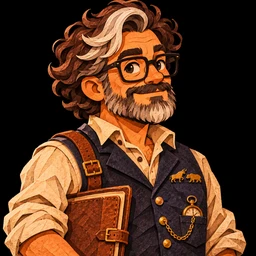
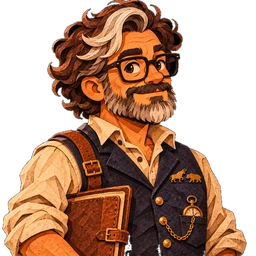
James's and Mike's portraits on a transparent background, like the other residents (no black box on the cards) (#330)
Claude-Session: https://claude.ai/code/session_01Y5Vq5MY5R98tUMSQqTrVD3

diff --git a/index.html b/index.html
@@ -47,4 +47,4 @@ html:not([data-paperworld-maintenance="yes"]) .building-placement-panel,
 html:not([data-paperworld-maintenance="yes"]) .crow-technical-tools,
 html:not([data-paperworld-maintenance="yes"]) .village-maintenance-only {display:none!important}
 </style><script>if(new URLSearchParams(location.search).get('maintenance')==='1')document.documentElement.dataset.paperworldMaintenance='yes'</script></head><body><header><strong>PAPERWORLD</strong><span>YOUR LIVING AI VILLAGE</span></header><div class="layout"><main id="view"><canvas id="map" aria-label="Paperworld enlarged village preview; drag to move camera and tap a building to inspect"></canvas><div class="controls"><button id="path-editor-toggle" type="button" aria-pressed="false" title="Σχεδίαση διαδρομών">Paths</button><button id="building-placement-toggle" type="button" aria-pressed="false" title="Μετακίνηση κτιρίων">Τοποθέτηση κτιρίων</button><button id="world-talk-matt" type="button" aria-label="Talk to Matt" title="Talk to Matt">M</button><button id="world-work-panel" type="button" aria-label="Οι εργασίες μου" title="Οι εργασίες μου">✓</button><button id="depth-demo" class="depth-demo" type="button" aria-label="Cycle isometric depth test">Depth test: Off</button><button id="plus" aria-label="Zoom in">+</button><button id="minus" aria-label="Zoom out">−</button><button id="home" aria-label="Fit world">⌂</button></div><section id="path-editor-panel" class="building-placement-panel path-editor-panel" hidden aria-label="Σχεδιασμός διαδρομών"><strong>Σχεδίαση διαδρομών</strong><p id="path-editor-status">Επεξεργασία διαδρομών</p><label for="path-editor-mode">Εργαλείο</label><select id="path-editor-mode"><option value="draw">Σχεδίαση / σύνδεση</option><option value="move">Μετακίνηση κόμβου</option><option value="erase">Διαγραφή σύνδεσης</option><option value="hidden">Κρυφή διαδρομή</option></select><label class="path-editor-check"><input id="path-editor-show-hidden" type="checkbox" checked> Εμφάνιση κρυφών διαδρομών</label><div class="building-placement-actions"><button id="path-editor-undo" type="button">Αναίρεση</button><button id="path-editor-reset" type="button">Επαναφορά paths</button><button id="path-editor-copy" type="button">Αντιγραφή paths</button><button id="path-editor-finish" type="button">Τέλος</button></div><textarea id="path-editor-export" rows="6" readonly hidden aria-label="Path survey JSON"></textarea><small>Δοκιμαστικό σχέδιο μόνο σε αυτόν τον browser. Οι χαρακτήρες συνεχίζουν να χρησιμοποιούν τα εγκεκριμένα paths μέχρι να τα επιβεβαιώσουμε.</small></section><section id="building-placement-panel" class="building-placement-panel" hidden aria-label="Επεξεργασία θέσεων κτιρίων"><strong>Τοποθέτηση κτιρίων</strong><p id="building-placement-status">Άγγιξε ένα κτίριο για να το επιλέξεις.</p><div class="building-placement-actions"><button id="building-nudge-left" type="button" aria-label="Αριστερά">←</button><button id="building-nudge-right" type="button" aria-label="Δεξιά">→</button><button id="building-nudge-up" type="button" aria-label="Πάνω">↑</button><button id="building-nudge-down" type="button" aria-label="Κάτω">↓</button><button id="building-placement-reset" type="button">Επαναφορά κτιρίου</button><button id="building-placement-reset-all" type="button">Επαναφορά όλων</button><button id="building-placement-copy" type="button">Αντιγραφή θέσεων</button><button id="building-placement-finish" type="button">Τέλος</button></div><textarea id="building-placement-export" rows="6" readonly hidden aria-label="Building placement JSON"></textarea><small>Οι αλλαγές αποθηκεύονται μόνο σε αυτόν τον browser. Η κανονική λειτουργία του χωριού δεν αλλάζει μέχρι το τελικό PR.</small></section><div class="hint">Άγγιξε το χωριό για να περπατήσεις · M: Matt · T: κοντινός συνεργάτης</div></main><aside id="world-drawer" hidden><div class="world-drawer-head"><small>ΟΙ ΕΡΓΑΣΙΕΣ ΜΟΥ</small><button id="close-world-drawer" type="button" aria-label="Close work desk">×</button></div><h1 id="name">Το χωριό σου</h1><p id="desc">Επίλεξε ένα κτίριο ή μίλησε στον Matt.</p><div class="workspace-actions"><button id="walkway-overlay" type="button" class="open-projects" aria-label="Toggle walkable path overlay" aria-pressed="false" title="Show collision-checked walkable paths">Paths: Off</button><button id="call-visual-meeting" type="button" class="open-projects" title="Οπτική συνάντηση και πραγματική ενημέρωση εργασιών · χωρίς AI κλήση">Town Hall · συντονισμός</button><button id="open-projects" class="open-projects" type="button">Οι εργασίες μου</button><button id="open-chief" class="open-projects chief-launch" type="button">Talk to Matt</button></div><details class="dev-tools"><summary>Map calibration tools</summary><div class="marker-editor"><button id="calibrate-marker" type="button" disabled>Place marker on door</button><button id="reset-marker" type="button" disabled>Reset</button><p id="marker-status">Select a building to adjust its marker.</p><button id="export-markers" type="button">Copy all 5 door positions</button><textarea id="marker-export-output" rows="5" readonly hidden aria-label="Door calibration coordinates"></textarea></div></details><details class="dev-tools"><summary>Technical asset status</summary><section><b>Village status</b><div id="assets"></div><p>Five project rooms are available. Navigation and artwork refinement continues.</p></section></details><div id="project-room" class="project-room" hidden aria-live="polite"></div><p class="disclaimer">Οι σημαντικές αποφάσεις και οι δημοσιεύσεις παραμένουν υπό τον έλεγχό σου.</p></aside></div><script src="./js/i18n.js?v=bilingual-v1-context" defer></script><script src="./js/owner-path-survey.js?v=20261121-74" defer></script><script src="./js/navigation.js?v=owner-survey-safe-v5" defer></script><script src="./js/path-editor.js?v=1" defer></script><script src="./js/depth.js?v=sidewalk-depth-v2" defer></script><script src="./js/projects.js" defer></script><script src="./js/rooms-ui.js" defer></script><script src="./js/cloud.js?v=bilingual-v1-suno-cap-tidy-push-tools-link-stage-ideas-inventory-redo-james-shop-page-mike" defer></script><script src="./js/agent-conversation-store.js?v=43-mike" defer></script><script src="./js/chief.js?v=28" defer></script><script src="./js/agents.js?v=39-mike" defer></script><script src="./js/director-memory-review.js?v=2-r2-f1" defer></script><script src="./js/director-history-import.js?v=1" defer></script><script src="./js/director-history-import-ui.js?v=1-f1" defer></script><script src="./js/listening-review.js?v=human-first-v3" defer></script><script src="./js/autonomy-public-feed.js?v=unattended-v5" defer></script><script src="./js/human-first-hub.js?v=responsive-1-tidy-slim-f2" defer></script><script src="./js/town-hall-briefing.js?v=integrated-v4-f1" defer></script><script src="./js/village-activity.js?v=human-v3-reasons-audit-r2-redone" defer></script><script src="./js/cloud-ui.js?v=release-1-phase2-tidy-push-ideas-audit-r2-f1-redo-shop-page-mike" defer></script><script src="./js/visual-agent-workflow.js?v=1" defer></script><script src="./js/director-movement.js?v=owner-connected-v2-townhall" defer></script><script src="./js/town-hall-interior.js?v=3-scene-audit-r2-week-fast" defer></script><script src="./js/workspace-interior.js?v=3-scenes-audit-james-mike-art-james2-mike2-jr" defer></script><script src="./js/push-notify.js?v=2-app" defer></script><script src="./js/director-actions-client.js?v=2-studio-v2-voice2" defer></script><script src="./js/proof.js?v=4-redone" defer></script>
-<script src="./js/village-life.js?v=3-strolls-work" defer></script><script src="./js/camera-framing.js?v=responsive-1-board-follow" defer></script><script src="./js/resident-status.js?v=1&stall=1-audit-f1-redo-redone" defer></script><script src="./js/village-ambience.js?v=2-night" defer></script><script src="./js/village-sound.js?v=1" defer></script><script src="./js/app.js?v=responsive-1-living-v3-board-follow-night-townhall-ws-audit-f2-shop2-mike-art-fast-style2-james2-mike2-mh-ms" defer></script><script src="./js/matt-history.js?v=full-replies-v3-notify-all" defer></script><script src="./js/agent-profiles.js?v=3-mike-mike-art-style2-james2-mike2-ms" defer></script><script src="./js/team-panel.js?v=responsive-1-mike" defer></script><script src="./js/crow-suno-prompt.js?v=1" defer></script><script src="./js/crow-studio-draft.js?v=7-truthful-handoff-wordless-studio-v2-voice2" defer></script><script src="./js/messenger-format.js?v=messenger-v2-1" defer></script><script src="./js/routine-intent.js?v=release-1" defer></script><script src="./js/voice-input.js?v=1" defer></script><script src="./js/world-dialogue.js?v=release-1-routine-v4-composer-fix-cards-v2-phase5-living-context-starters-chime-handoff-tools-voice-ideas-audit-mem-song2-studio-v2-suno-inventory-voice2-f1-redo-b8-mike" defer></script><script src="./js/connection-status.js?v=responsive-1" defer></script><script src="./js/workspace.js?v=bilingual-v1-tidy-sound-push-ideas-proof-audit-mem-f2-redo-james-shop-page-mike" defer></script><script src="./js/resident-feed.js?v=1-board-fast-audit-week" defer></script><script src="./js/village-board.js?v=2-mike" defer></script></body></html>
+<script src="./js/village-life.js?v=3-strolls-work" defer></script><script src="./js/camera-framing.js?v=responsive-1-board-follow" defer></script><script src="./js/resident-status.js?v=1&stall=1-audit-f1-redo-redone" defer></script><script src="./js/village-ambience.js?v=2-night" defer></script><script src="./js/village-sound.js?v=1" defer></script><script src="./js/app.js?v=responsive-1-living-v3-board-follow-night-townhall-ws-audit-f2-shop2-mike-art-fast-style2-james2-mike2-mh-ms" defer></script><script src="./js/matt-history.js?v=full-replies-v3-notify-all" defer></script><script src="./js/agent-profiles.js?v=3-mike-mike-art-style2-james2-mike2-ms-pt" defer></script><script src="./js/team-panel.js?v=responsive-1-mike" defer></script><script src="./js/crow-suno-prompt.js?v=1" defer></script><script src="./js/crow-studio-draft.js?v=7-truthful-handoff-wordless-studio-v2-voice2" defer></script><script src="./js/messenger-format.js?v=messenger-v2-1" defer></script><script src="./js/routine-intent.js?v=release-1" defer></script><script src="./js/voice-input.js?v=1" defer></script><script src="./js/world-dialogue.js?v=release-1-routine-v4-composer-fix-cards-v2-phase5-living-context-starters-chime-handoff-tools-voice-ideas-audit-mem-song2-studio-v2-suno-inventory-voice2-f1-redo-b8-mike" defer></script><script src="./js/connection-status.js?v=responsive-1" defer></script><script src="./js/workspace.js?v=bilingual-v1-tidy-sound-push-ideas-proof-audit-mem-f2-redo-james-shop-page-mike" defer></script><script src="./js/resident-feed.js?v=1-board-fast-audit-week" defer></script><script src="./js/village-board.js?v=2-mike" defer></script></body></html>

diff --git a/js/agent-profiles.js b/js/agent-profiles.js
@@ -7,9 +7,9 @@ const roster=Object.freeze({
  'studio-director':{name:'Crow',role:'Director',project:'The Lost Wanderer',kind:'director',portrait:'./assets/portraits/crow.webp',sheet:'studio-director-hooded-v2.png',rect:[96,0,96,132]},
  'wellbeing-director':{name:'Dave',role:'Director',project:'Wellbeing & Training',kind:'director',portrait:'./assets/portraits/dave.webp',sheet:'wellbeing-director-walk-hq-v2.png',rect:[64,0,64,88]},
  // James: the village trader. His own project: researching, making and selling digital products.
- 'shop-director':{name:'James',role:'Director',project:'Digital Shop',kind:'director',portrait:'./assets/portraits/james.webp?v=v2',sheet:'shop-director-walk-v3.png',rect:[0,0,64,88]},
+ 'shop-director':{name:'James',role:'Director',project:'Digital Shop',kind:'director',portrait:'./assets/portraits/james.webp?v=v3',sheet:'shop-director-walk-v3.png',rect:[0,0,64,88]},
  // Mike: watches the owner's stocks and ETFs. Read-only, private, never advises.
- 'markets-director':{name:'Mike',role:'Director',project:'Markets',kind:'director',portrait:'./assets/portraits/mike.webp?v=v2',sheet:'markets-director-walk-v3.png',rect:[0,0,64,88]},
+ 'markets-director':{name:'Mike',role:'Director',project:'Markets',kind:'director',portrait:'./assets/portraits/mike.webp?v=v3',sheet:'markets-director-walk-v3.png',rect:[0,0,64,88]},
  'listening-developer':{name:'Listening Mirror Developer',role:'Worker',project:'Listening Mirror',kind:'worker'},
  'pokemon-developer':{name:'Pokémon Developer',role:'Worker',project:'Pokémon: Echoes',kind:'worker'}
 });
